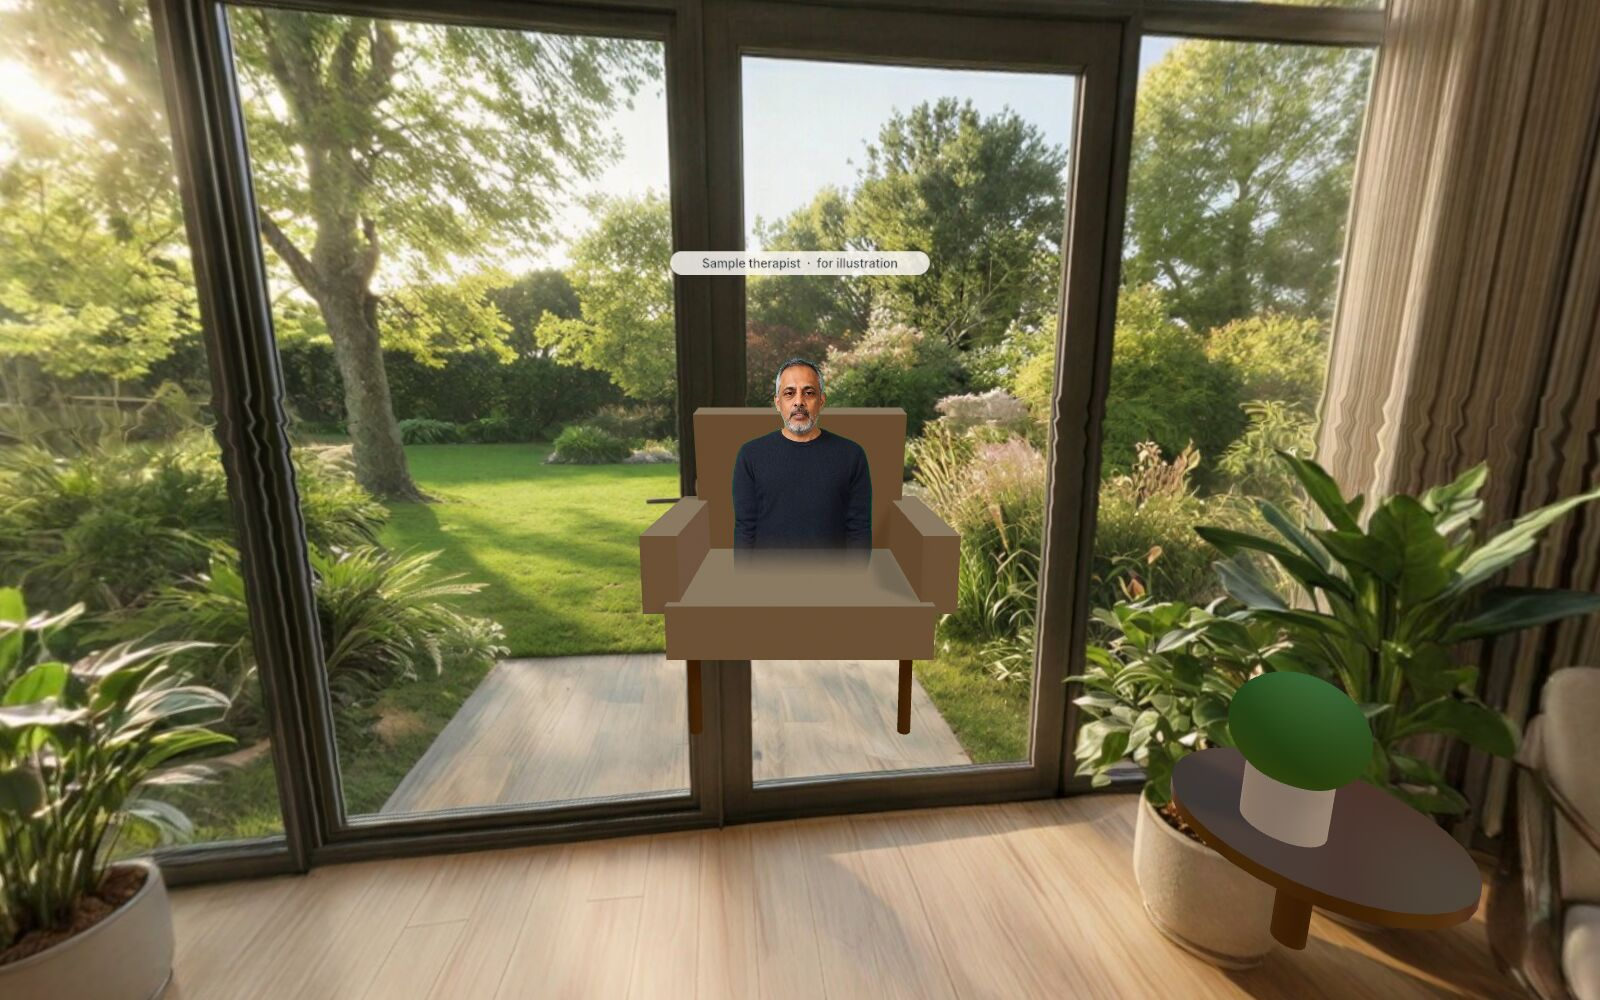
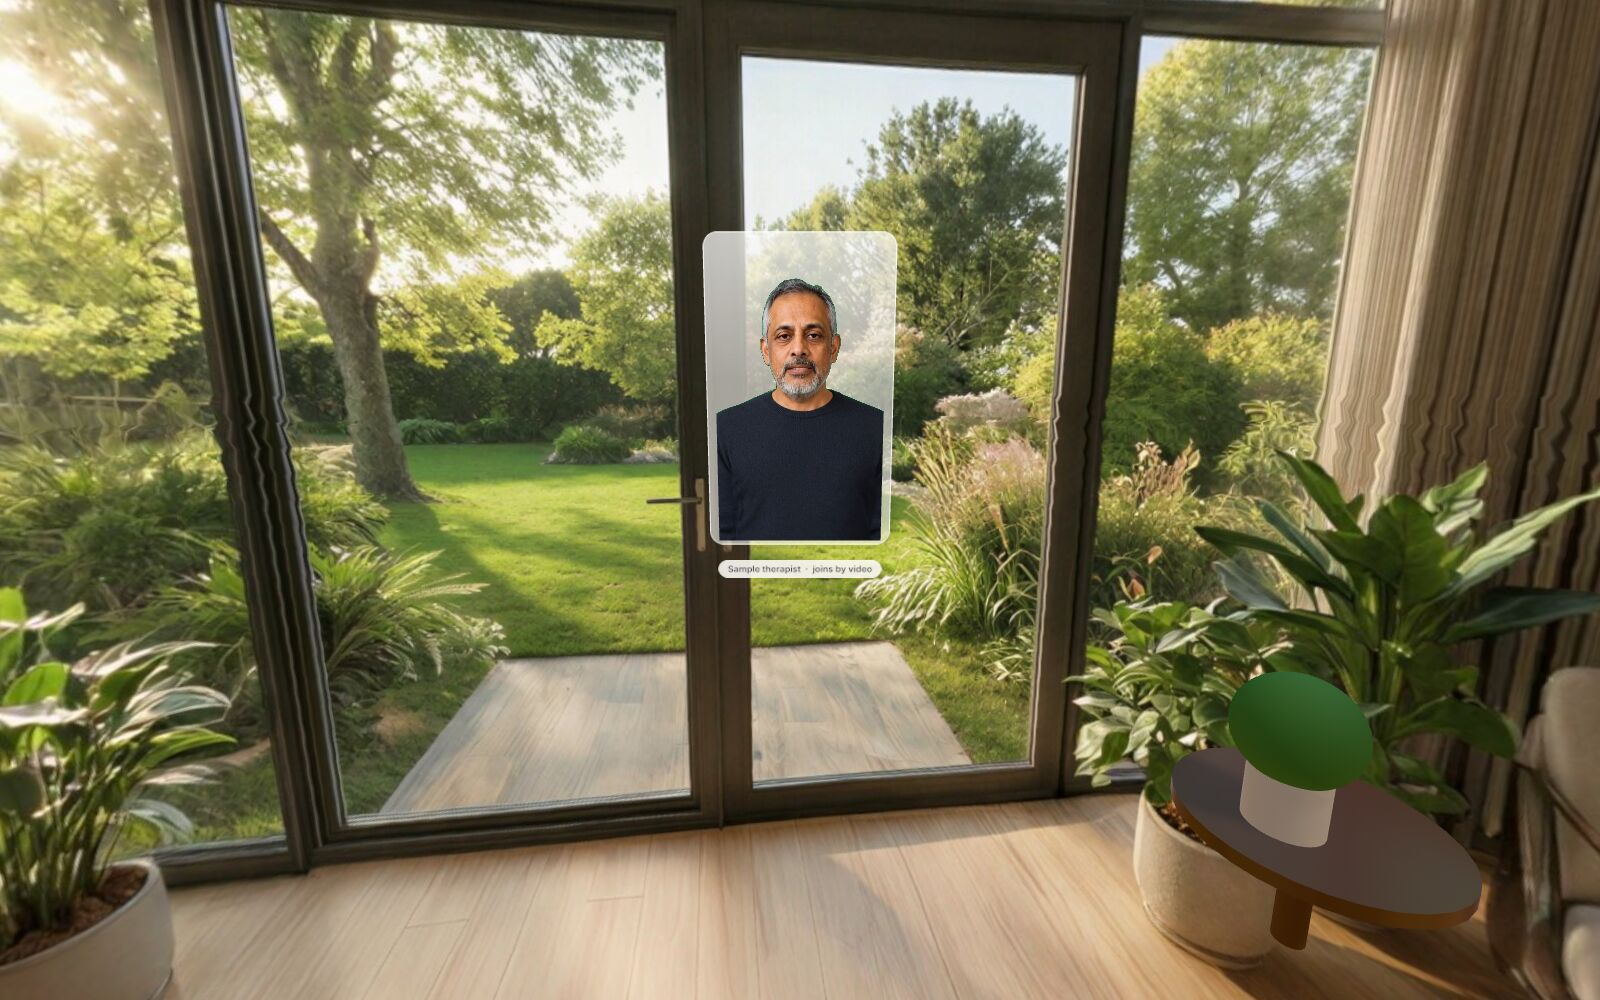
Phrenly VR page: the sample therapist joins by video
Claude-Session: https://claude.ai/code/session_01MFum8UyfMJZRMuBy42h2mX

Changed region(s): [[0.375, 0.217, 0.625, 0.744]]

diff --git a/vr.html b/vr.html
@@ -202,11 +202,11 @@ img { display: block; max-width: 100%; }
       </div>
     </article>
     <article class="step">
-      <img src="/vr/session.jpg" alt="A sample therapist seated in the virtual office, with a garden behind" loading="lazy"/>
+      <img src="/vr/session.jpg" alt="A sample therapist joining by video in the virtual office, with a garden behind" loading="lazy"/>
       <div class="step-body">
         <div class="step-num">Step 3</div>
         <h3>Meet your therapist</h3>
-        <p>When they're ready, step through and sit down together in the place you chose. Your therapist joins by video.</p>
+        <p>When they're ready, step through to the place you chose. Your therapist joins you there by video.</p>
       </div>
     </article>
   </div>
